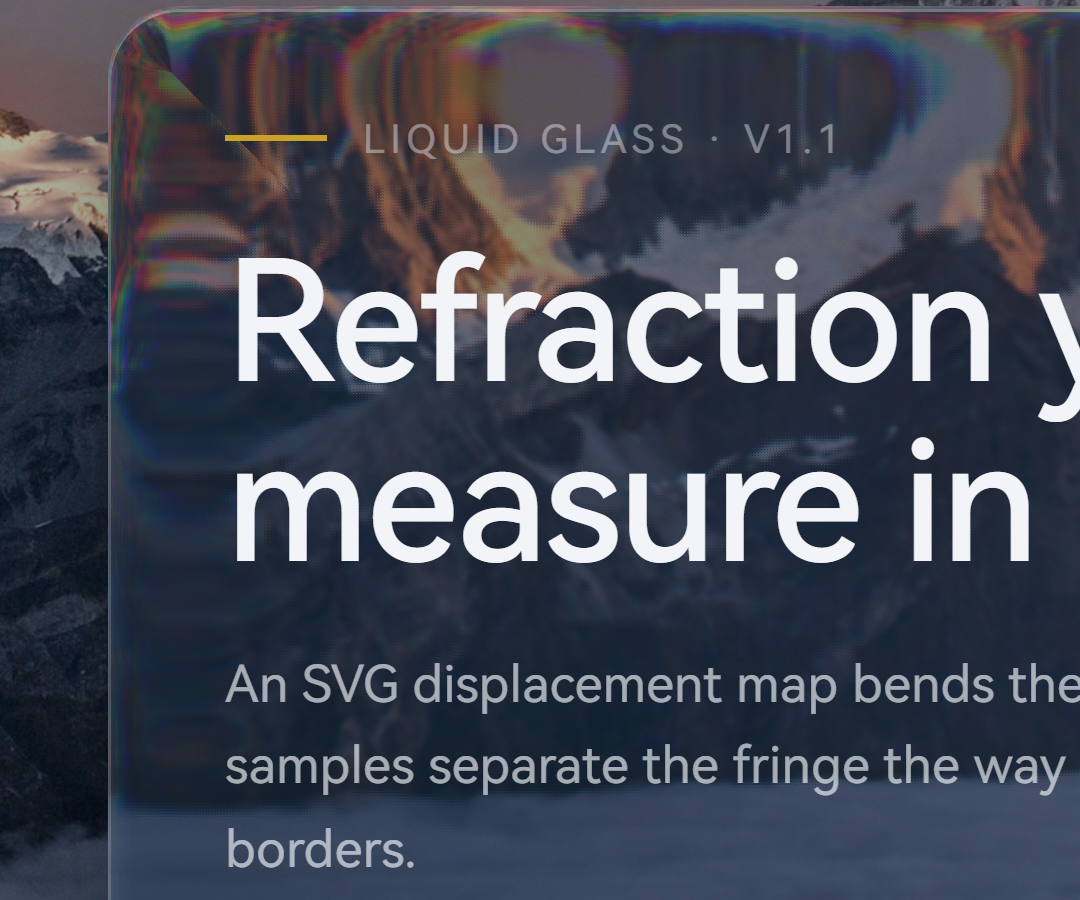
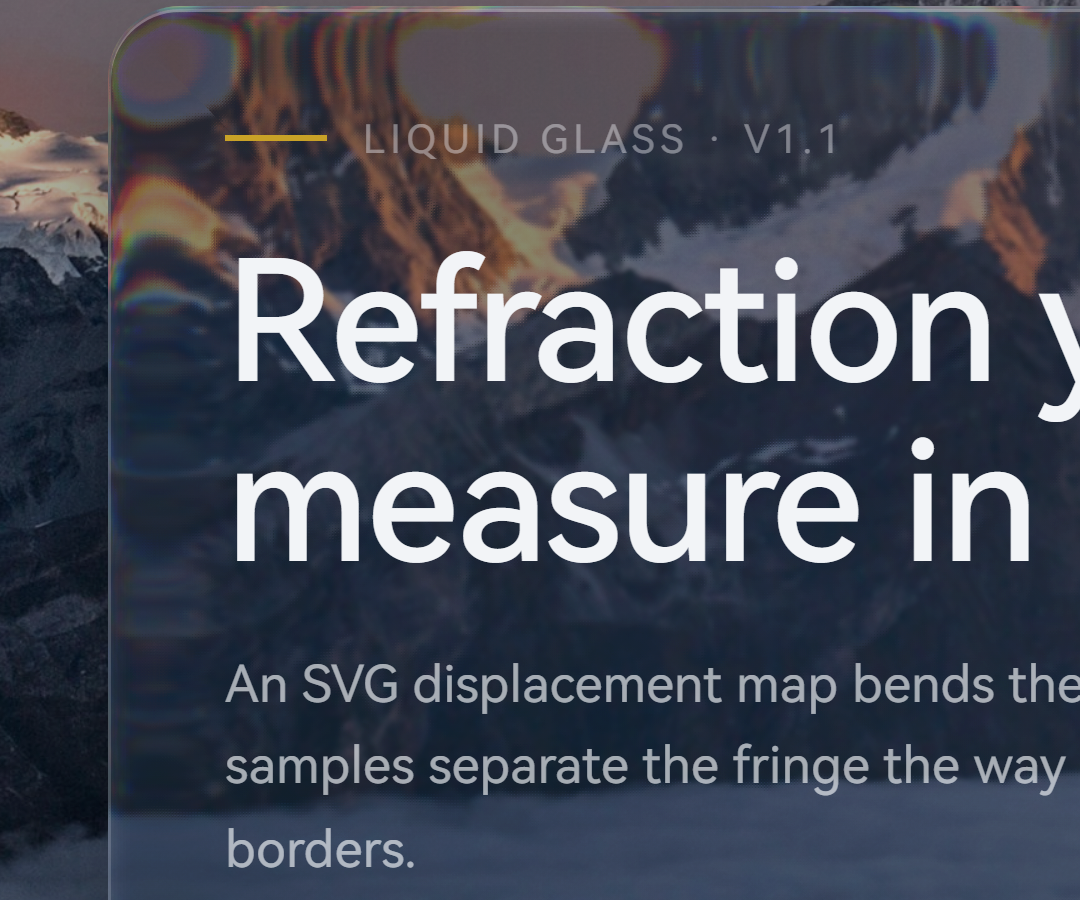
Settle the rim at 68px / edge 1.05 / dispersion .45
Narrower band than 90px tames the distortion; dispersion back at .45 keeps the fringe readable.

Changed region(s): [[0.0917, 0.0, 1.0, 0.4356], [0.5194, 0.1867, 0.55, 0.2178], [0.0917, 0.8711, 0.1222, 0.9022]]

diff --git a/demo/index.html b/demo/index.html
@@ -24,7 +24,7 @@
     <span><b>05</b> License</span>
   </nav>
 
-  <section class="hero glass" data-glass data-rim="90" data-edge="1.4" data-chroma="0.45" data-map-scale="4" data-blur="0">
+  <section class="hero glass" data-glass data-rim="68" data-edge="1.05" data-chroma="0.45" data-map-scale="4" data-blur="0">
     <div class="eyebrow">Liquid glass · v1.1</div>
     <h1>Refraction you can<br>measure in pixels.</h1>
     <p>
@@ -47,7 +47,7 @@
     </div>
   </section>
 
-  <aside class="side glass" data-glass data-rim="90" data-edge="1.4" data-chroma="0.45" data-map-scale="4" data-blur="0">
+  <aside class="side glass" data-glass data-rim="68" data-edge="1.05" data-chroma="0.45" data-map-scale="4" data-blur="0">
     <h2>Edge bend across the rim</h2>
     <svg class="chart" viewBox="0 0 456 210" role="img" aria-label="Refraction strength falls off from the rim">
       <defs>

diff --git a/src/glass-plate.js b/src/glass-plate.js
@@ -35,8 +35,8 @@ const DEFAULTS = {
   // Rim model borrowed from kubai087/glasswork: the refracting band is an absolute
   // width in CSS px, the very edge samples `edge * rim` inward, and dispersion is a
   // small fraction (0.15 = red 15% further than blue), not a broad rainbow.
-  rim: 90,
-  edge: 1.4,
+  rim: 68,
+  edge: 1.05,
   refraction: null, // null = auto: min(rim * edge, shortSide * 0.5)
   bezel: 0.56,
   curvature: 4,

diff --git a/README.md b/README.md
@@ -102,8 +102,8 @@ python -m http.server 8000     # ES module 需要 HTTP，不能 file://
 | --- | --- | --- |
 | `targets` | `'[data-glass]'` | 需要玻璃效果的卡片选择器 |
 | `layers` | `['.lg-bg', '.lg-scrim']` | 要复制进玻璃层的背景层，按绘制顺序 |
-| `rim` | `90` | 折射带宽度，CSS px（按短边收敛） |
-| `edge` | `1.4` | 最外缘向内采样的距离，单位是 rim |
+| `rim` | `68` | 折射带宽度，CSS px（按短边收敛） |
+| `edge` | `1.05` | 最外缘向内采样的距离，单位是 rim |
 | `curvature` | `4` | 剖面指数，2 为圆形、4 偏方、越大边缘越陡 |
 | `chroma` | `0.45` | 色散强度，≈ 彩边宽度 / (rim × edge)；0 关闭 |
 | `specular` | `0.86` | 边缘高光强度 |
@@ -158,7 +158,7 @@ docs/                   README 用图
 
 The rim model now follows [kubai087/glasswork](https://github.com/kubai087/glasswork) (MIT):
 
-- the refracting band is an **absolute width** (`rim`, 90 CSS px here) clamped on small surfaces, not a
+- the refracting band is an **absolute width** (`rim`, 68 CSS px here) clamped on small surfaces, not a
   fraction of the card — so a bigger card no longer gets a wider, muddier fringe;
 - the very edge samples `edge × rim` inward (1.1–1.6), and the bend falls off as `(1 - d/rim)^power`;
 - **dispersion is a fraction of the rim** (`0.45`: red bends ~45% further than blue). Our old `0.55`
